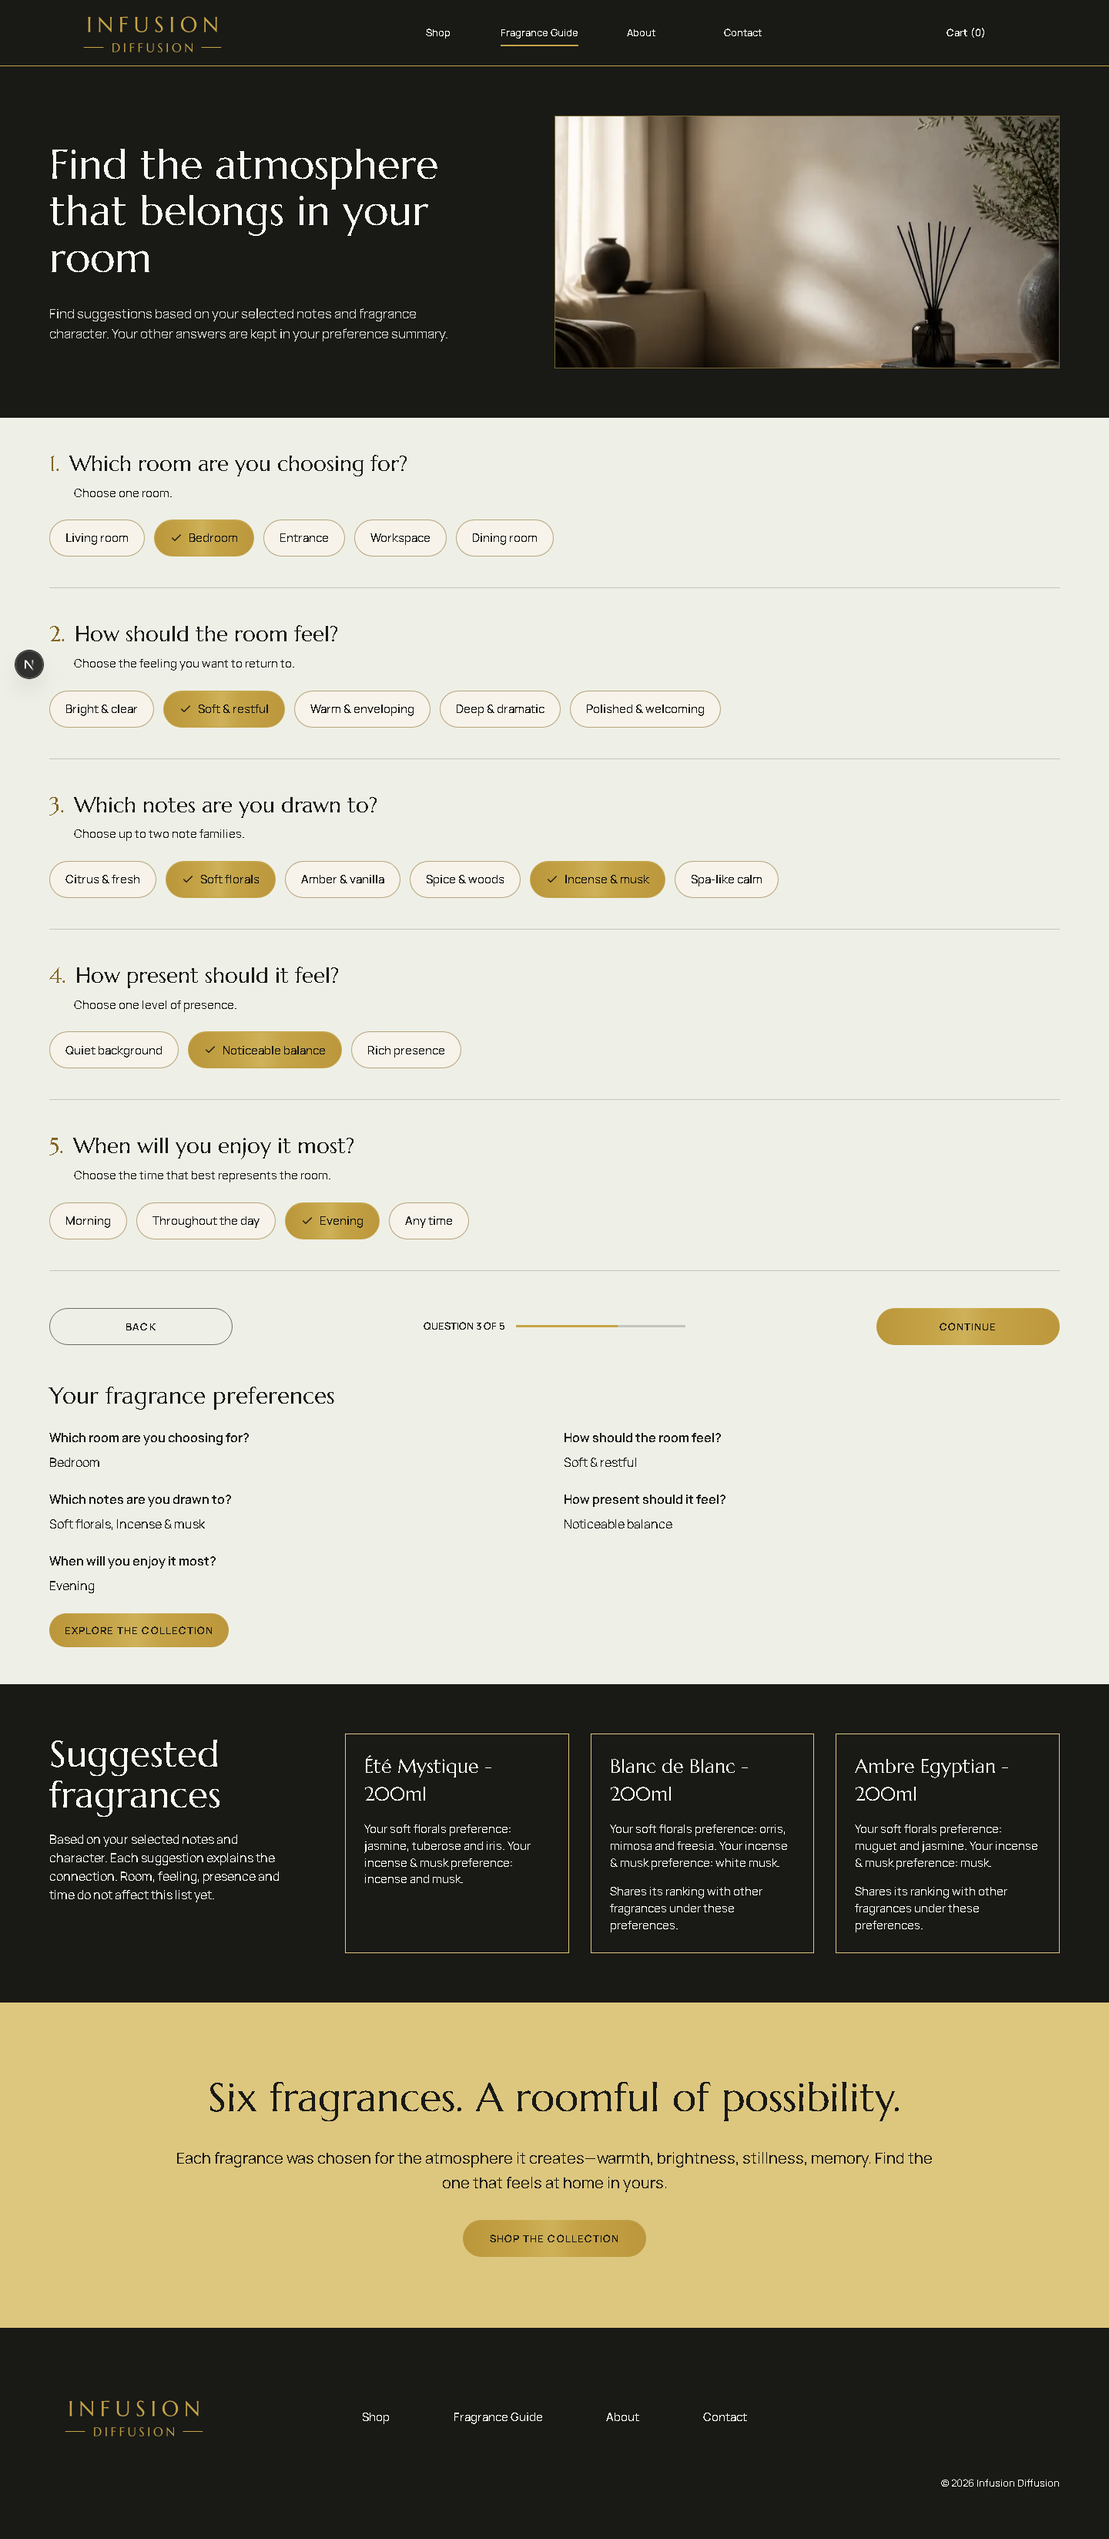
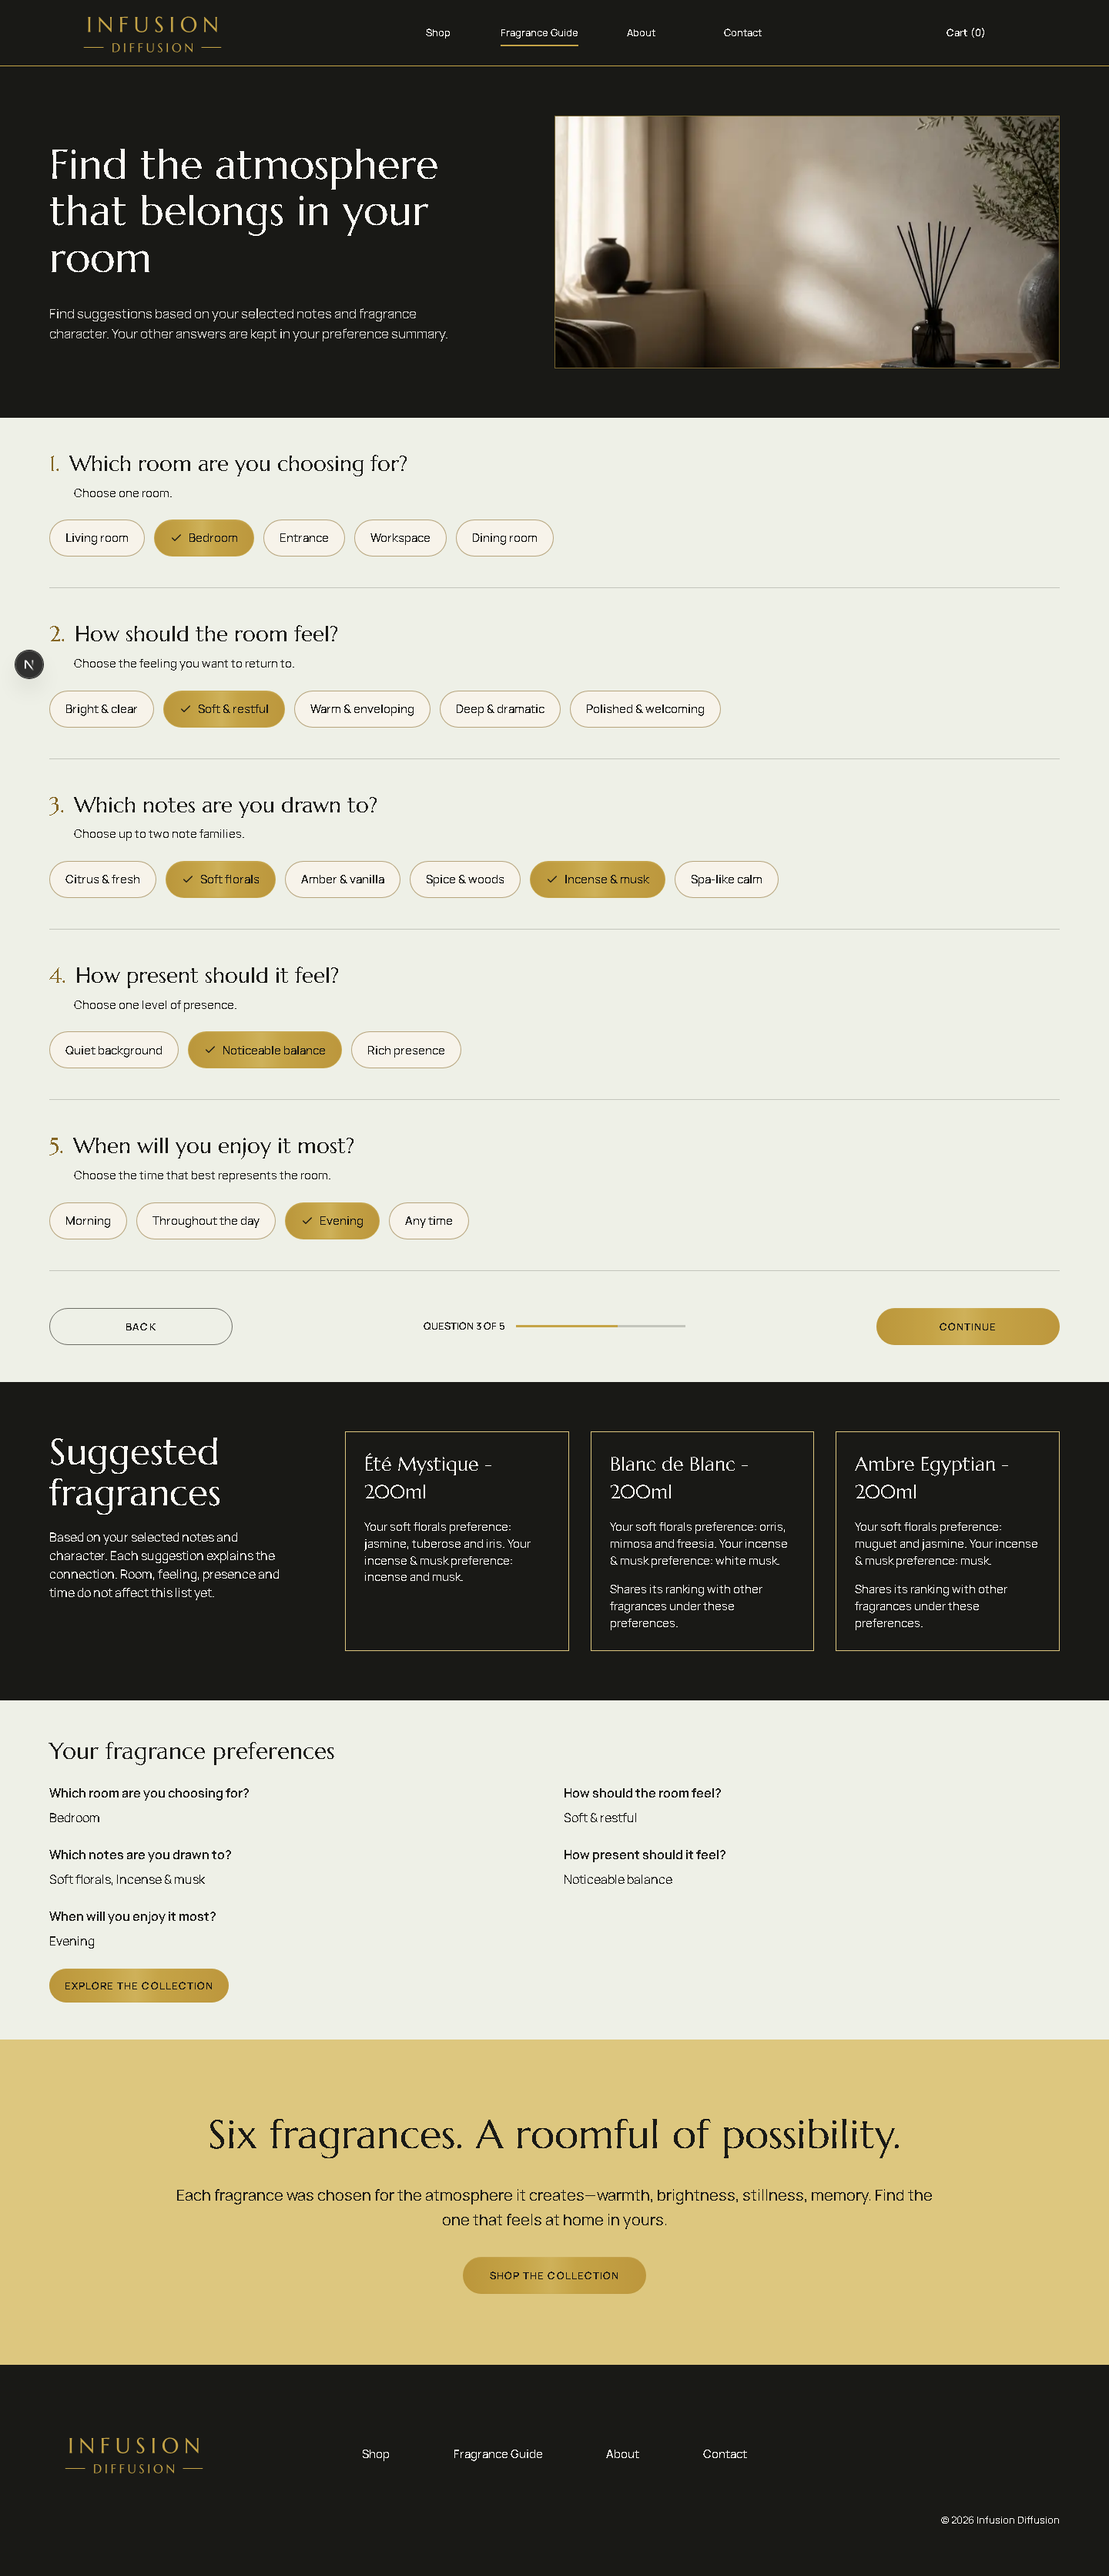
Show fragrance suggestions before the preference summary

diff --git a/src/components/templates/fragrance-guide.tsx b/src/components/templates/fragrance-guide.tsx
@@ -274,41 +274,12 @@ export function FragranceGuideTemplate({
           </Button>
         </div>
         <p role="status" className="sr-only">
-          {reviewed ? "Your preferences are ready to review." : ""}
+          {reviewed
+            ? matches.length
+              ? "Your fragrance suggestions are ready to review."
+              : "Your preferences are ready to review."
+            : ""}
         </p>
-        {reviewed ? (
-          <section
-            className="space-y-6 pb-12"
-            aria-labelledby="guide-preferences-heading"
-          >
-            <h2
-              id="guide-preferences-heading"
-              ref={reviewHeading}
-              tabIndex={-1}
-              className="font-display focus-visible:outline-action-focus scroll-mt-28 text-3xl font-normal focus-visible:outline-3 focus-visible:outline-offset-4"
-            >
-              Your fragrance preferences
-            </h2>
-            <dl className="grid gap-6 sm:grid-cols-2">
-              {guideQuestions.map((question, index) => (
-                <div key={question.title}>
-                  <dt className="font-semibold">{question.title}</dt>
-                  <dd className="mt-2">{answers[index].join(", ")}</dd>
-                </div>
-              ))}
-            </dl>
-            {!matches.length ? (
-              <p>
-                {products === null
-                  ? "Fragrance suggestions are temporarily unavailable. Your preferences are still here; explore the collection or try again later."
-                  : "No fragrances with an approved connection to your selected notes or character are available to show. Explore the collection to discover more."}
-              </p>
-            ) : null}
-            <Button asChild>
-              <a href="/shop">EXPLORE THE COLLECTION</a>
-            </Button>
-          </section>
-        ) : null}
       </form>
       {reviewed && matches.length > 0 ? (
         <section
@@ -321,7 +292,9 @@ export function FragranceGuideTemplate({
           <div className="space-y-[18px]">
             <h2
               id="guide-shortlist-heading"
-              className="font-display text-5xl leading-[1.12] font-normal"
+              ref={reviewHeading}
+              tabIndex={-1}
+              className="font-display focus-visible:outline-action-focus scroll-mt-28 text-5xl leading-[1.12] font-normal focus-visible:outline-3 focus-visible:outline-offset-4"
             >
               Suggested fragrances
             </h2>
@@ -358,6 +331,39 @@ export function FragranceGuideTemplate({
               </a>
             ))}
           </div>
+        </section>
+      ) : null}
+      {reviewed ? (
+        <section
+          className={cn(gutters, "space-y-6 py-12")}
+          aria-labelledby="guide-preferences-heading"
+        >
+          <h2
+            id="guide-preferences-heading"
+            ref={matches.length ? undefined : reviewHeading}
+            tabIndex={-1}
+            className="font-display focus-visible:outline-action-focus scroll-mt-28 text-3xl font-normal focus-visible:outline-3 focus-visible:outline-offset-4"
+          >
+            Your fragrance preferences
+          </h2>
+          <dl className="grid gap-6 sm:grid-cols-2">
+            {guideQuestions.map((question, index) => (
+              <div key={question.title}>
+                <dt className="font-semibold">{question.title}</dt>
+                <dd className="mt-2">{answers[index].join(", ")}</dd>
+              </div>
+            ))}
+          </dl>
+          {!matches.length ? (
+            <p>
+              {products === null
+                ? "Fragrance suggestions are temporarily unavailable. Your preferences are still here; explore the collection or try again later."
+                : "No fragrances with an approved connection to your selected notes or character are available to show. Explore the collection to discover more."}
+            </p>
+          ) : null}
+          <Button asChild>
+            <a href="/shop">EXPLORE THE COLLECTION</a>
+          </Button>
         </section>
       ) : null}
       <section

diff --git a/src/components/templates/fragrance-guide.stories.tsx b/src/components/templates/fragrance-guide.stories.tsx
@@ -221,8 +221,20 @@ export const TwoNotesAndValidation: Story = {
       canvas.getByRole("heading", { name: "Suggested fragrances" }),
     ).toBeVisible();
     await expect(
-      canvas.getByRole("heading", { name: "Your fragrance preferences" }),
+      canvas.getByRole("heading", { name: "Suggested fragrances" }),
     ).toHaveFocus();
+    const suggestions = canvas.getByRole("region", {
+      name: "Suggested fragrances",
+    });
+    const preferences = canvas.getByRole("region", {
+      name: "Your fragrance preferences",
+    });
+    await expect(
+      Boolean(
+        suggestions.compareDocumentPosition(preferences) &
+        Node.DOCUMENT_POSITION_FOLLOWING,
+      ),
+    ).toBe(true);
     await userEvent.click(canvas.getByRole("radio", { name: "Bedroom" }));
     await expect(
       canvas.queryByRole("heading", { name: "Suggested fragrances" }),

diff --git a/tests/e2e/fragrance-guide.spec.ts b/tests/e2e/fragrance-guide.spec.ts
@@ -53,7 +53,16 @@ for (const width of [1440, 768, 390, 320]) {
     });
     await expect(suggestions).toBeVisible();
     await expect(suggestions.getByRole("link")).toHaveCount(3);
-    await expect(summary.getByRole("heading")).toBeFocused();
+    await expect(suggestions.getByRole("heading", { level: 2 })).toBeFocused();
+    expect(
+      await suggestions.evaluate((node) =>
+        Boolean(
+          node.compareDocumentPosition(
+            document.getElementById("guide-preferences-heading")!,
+          ) & Node.DOCUMENT_POSITION_FOLLOWING,
+        ),
+      ),
+    ).toBe(true);
     const links = await suggestions
       .getByRole("link")
       .evaluateAll((nodes) => nodes.map((a) => a.getAttribute("href")));

diff --git a/docs/features/inf-35-fragrance-matching.md b/docs/features/inf-35-fragrance-matching.md
@@ -1,5 +1,15 @@
 # INF-35 fragrance matching review
 
+## Preview ordering refinement
+
+Devon requested Suggested fragrances above Your fragrance preferences during
+PR #76 review. The DOM and visual order is now questions/controls, suggestions,
+preferences, gold invitation. Continue focuses the suggestions heading when
+matches exist, with preferences focus retained for empty/source-failure states.
+The summary moves outside the form and uses existing gutters with 48px vertical
+padding. Scoring, content, links and recovery behavior are unchanged. This
+supersedes the earlier summary-first focus/order evidence below.
+
 Status: Devon approved the exact rules and narrower first version on 9 September
 2026: "Yes that is fine for now, we can adjust later." Implementation and verification
 are in progress. Devon owns INF-35; Shawnee owns the

diff --git a/DESIGN.md b/DESIGN.md
@@ -2,6 +2,12 @@
 
 ## Guide matching implementation - 9 September 2026
 
+Devon's subsequent review puts Suggested fragrances above Your fragrance
+preferences, after the form controls. Continue focuses the suggestions heading
+when matches exist, or the preferences heading for empty/unavailable results.
+Keep the original section styling; the preferences section uses the shared
+gutters and 48px vertical padding below the suggestions.
+
 Devon approved the [matching contract](docs/features/inf-35-fragrance-matching.md)
 for a notes/character-only first version. Room, mood, presence and time remain
 summary preferences, explicitly excluded from scoring. Preserve Variation 02
